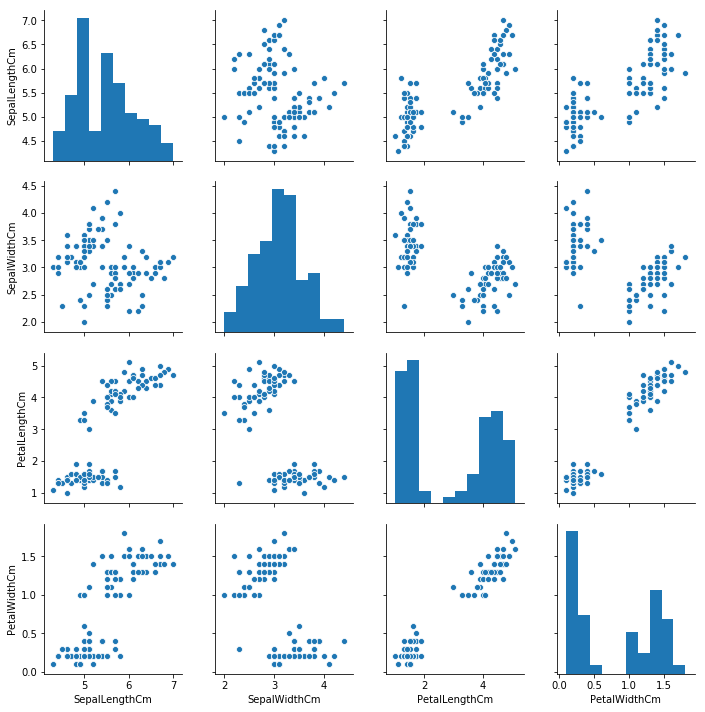
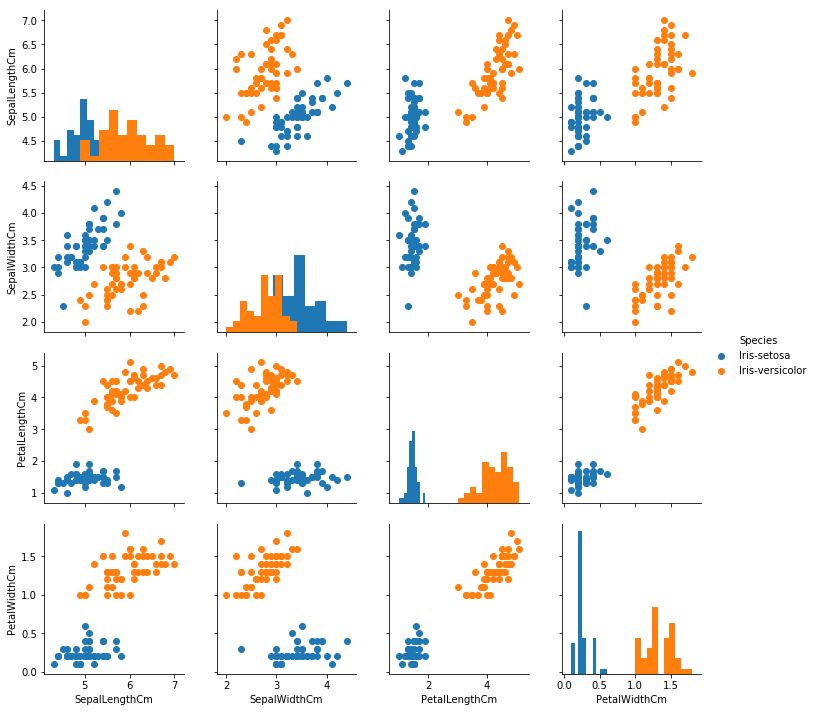
minor changes

diff --git a/Term_assignment_3/utils/read_dataset.py b/Term_assignment_3/utils/read_dataset.py
@@ -6,18 +6,23 @@ import numpy as np
 import pandas as pd
 import seaborn as sns
 from sklearn.preprocessing import MinMaxScaler
+import matplotlib.pyplot as plt
     
 
 def read_irisdata(pathname):
     # reading csv data
     df = pd.read_csv(pathname)
+    df = df.drop(['Id'], axis=1)
+    
+    # data analysis
+    g = sns.PairGrid(df, hue="Species")
+    g = g.map_diag(plt.hist)
+    g = g.map_offdiag(plt.scatter)
+    g = g.add_legend() 
 
     # Make dummy variables for rank
     df = pd.concat([df, pd.get_dummies(df['Species'], drop_first=True)], axis=1)
-    df = df.drop(['Id','Species'], axis=1)
-    
-    # dataset analysis
-    sns.pairplot(df[['SepalLengthCm','SepalWidthCm', 'PetalLengthCm', 'PetalWidthCm']])
+    df = df.drop(['Species'], axis=1)
     
     # normalizing the values
     scaler = MinMaxScaler()
